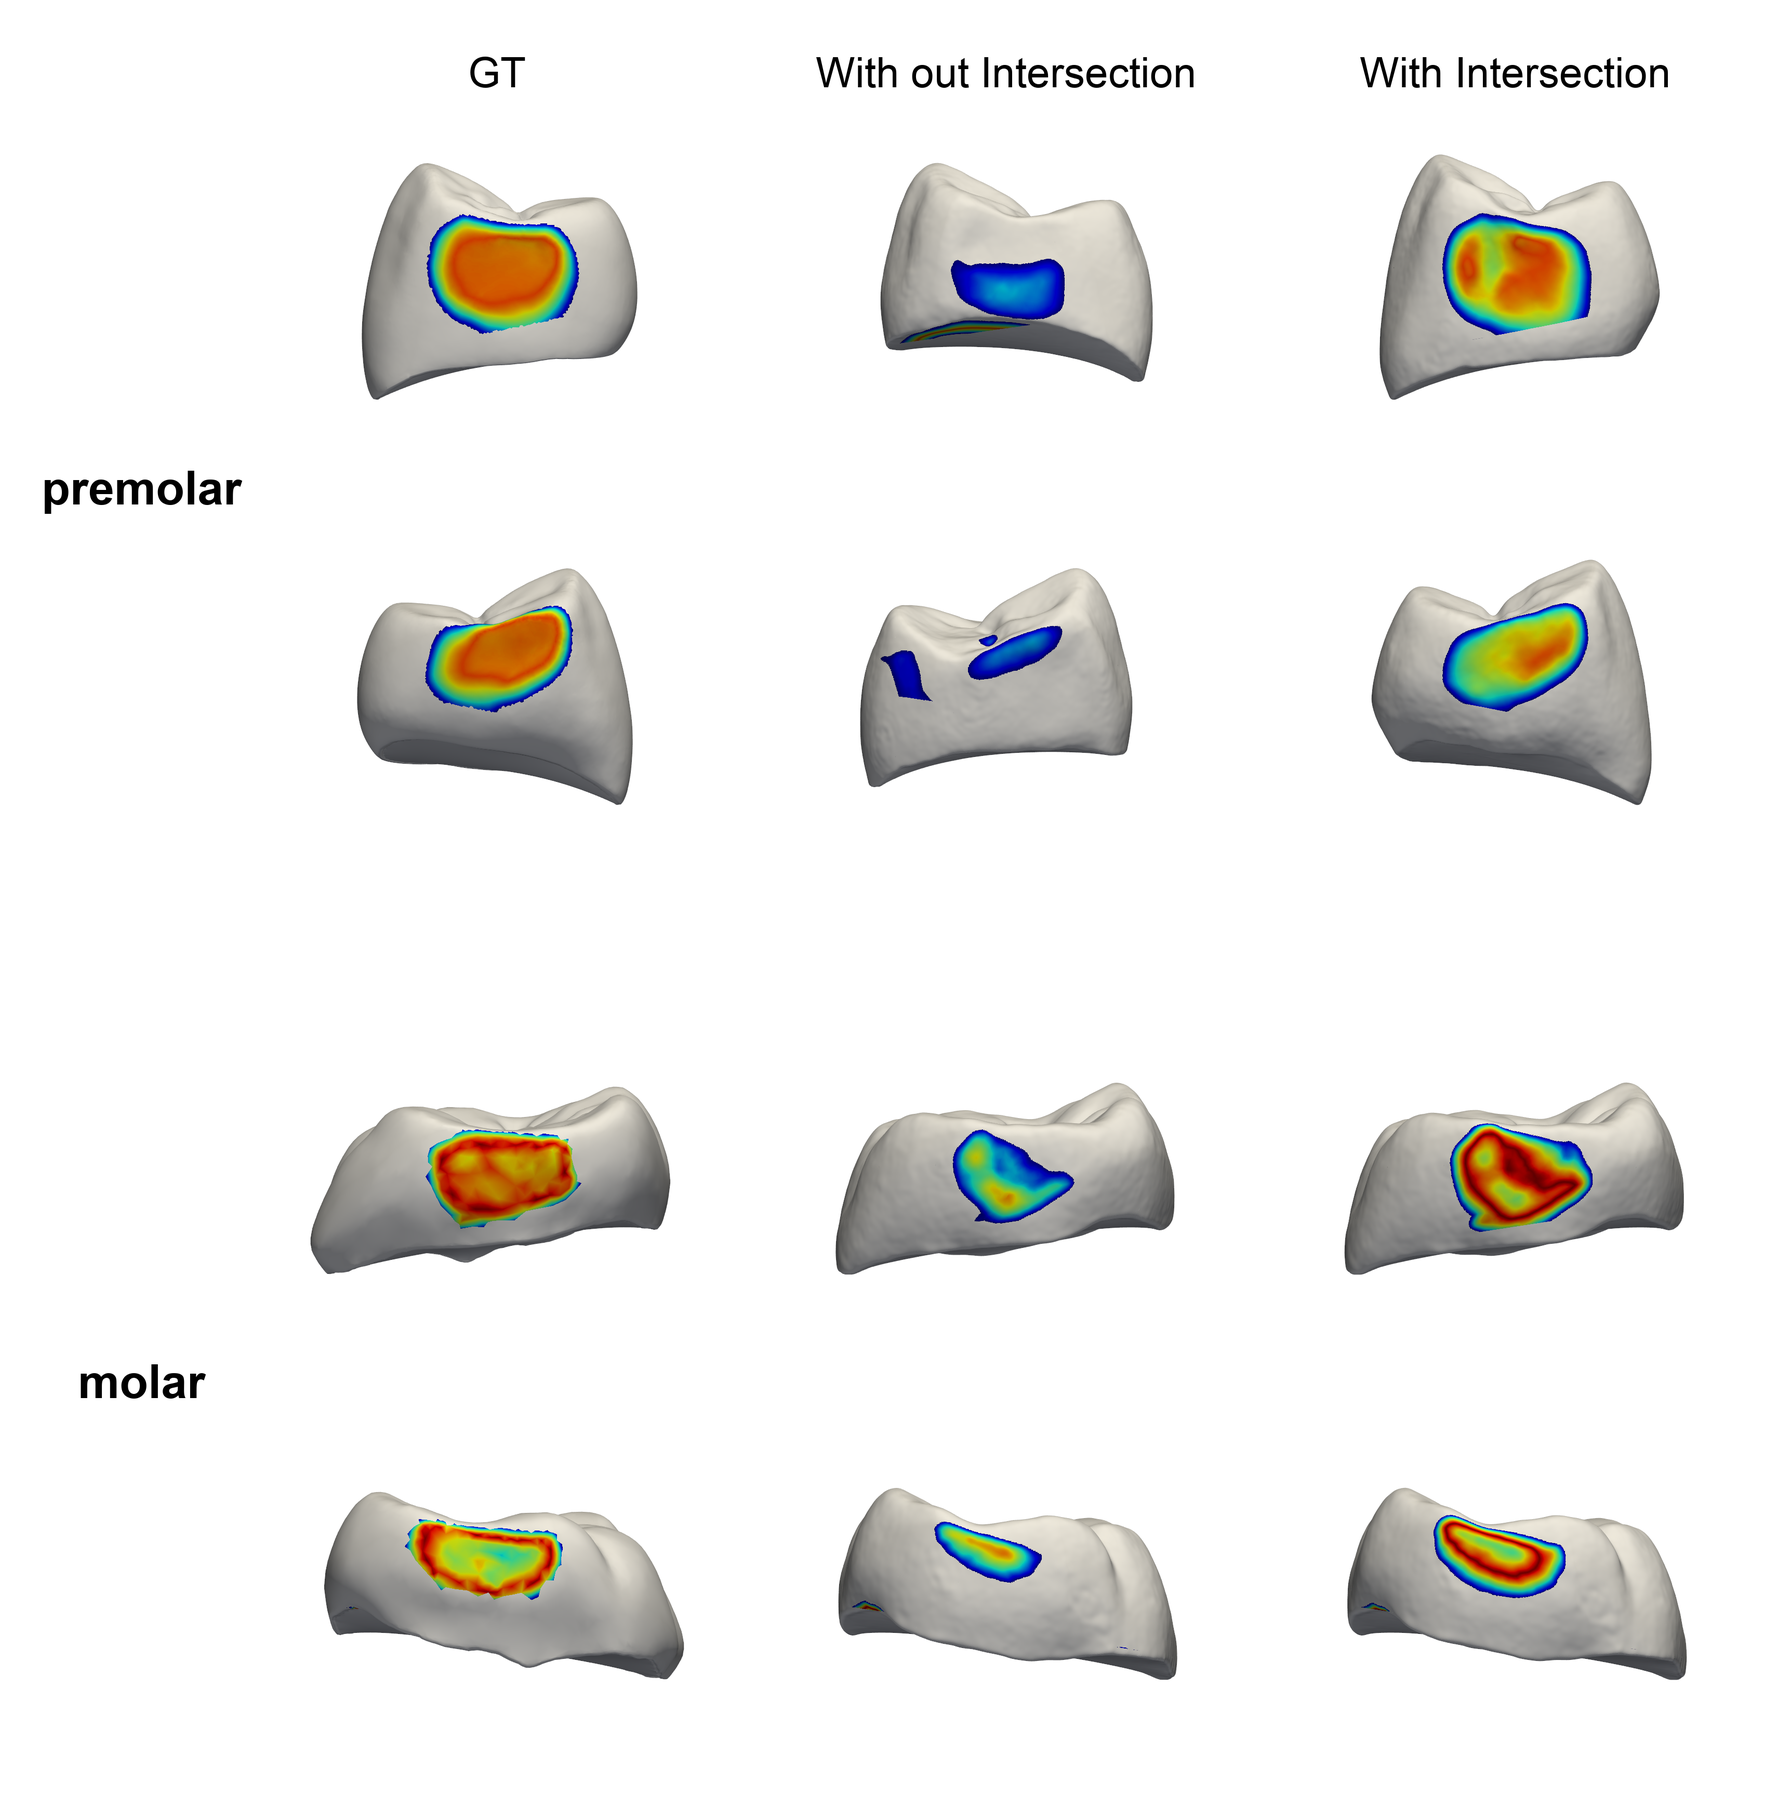
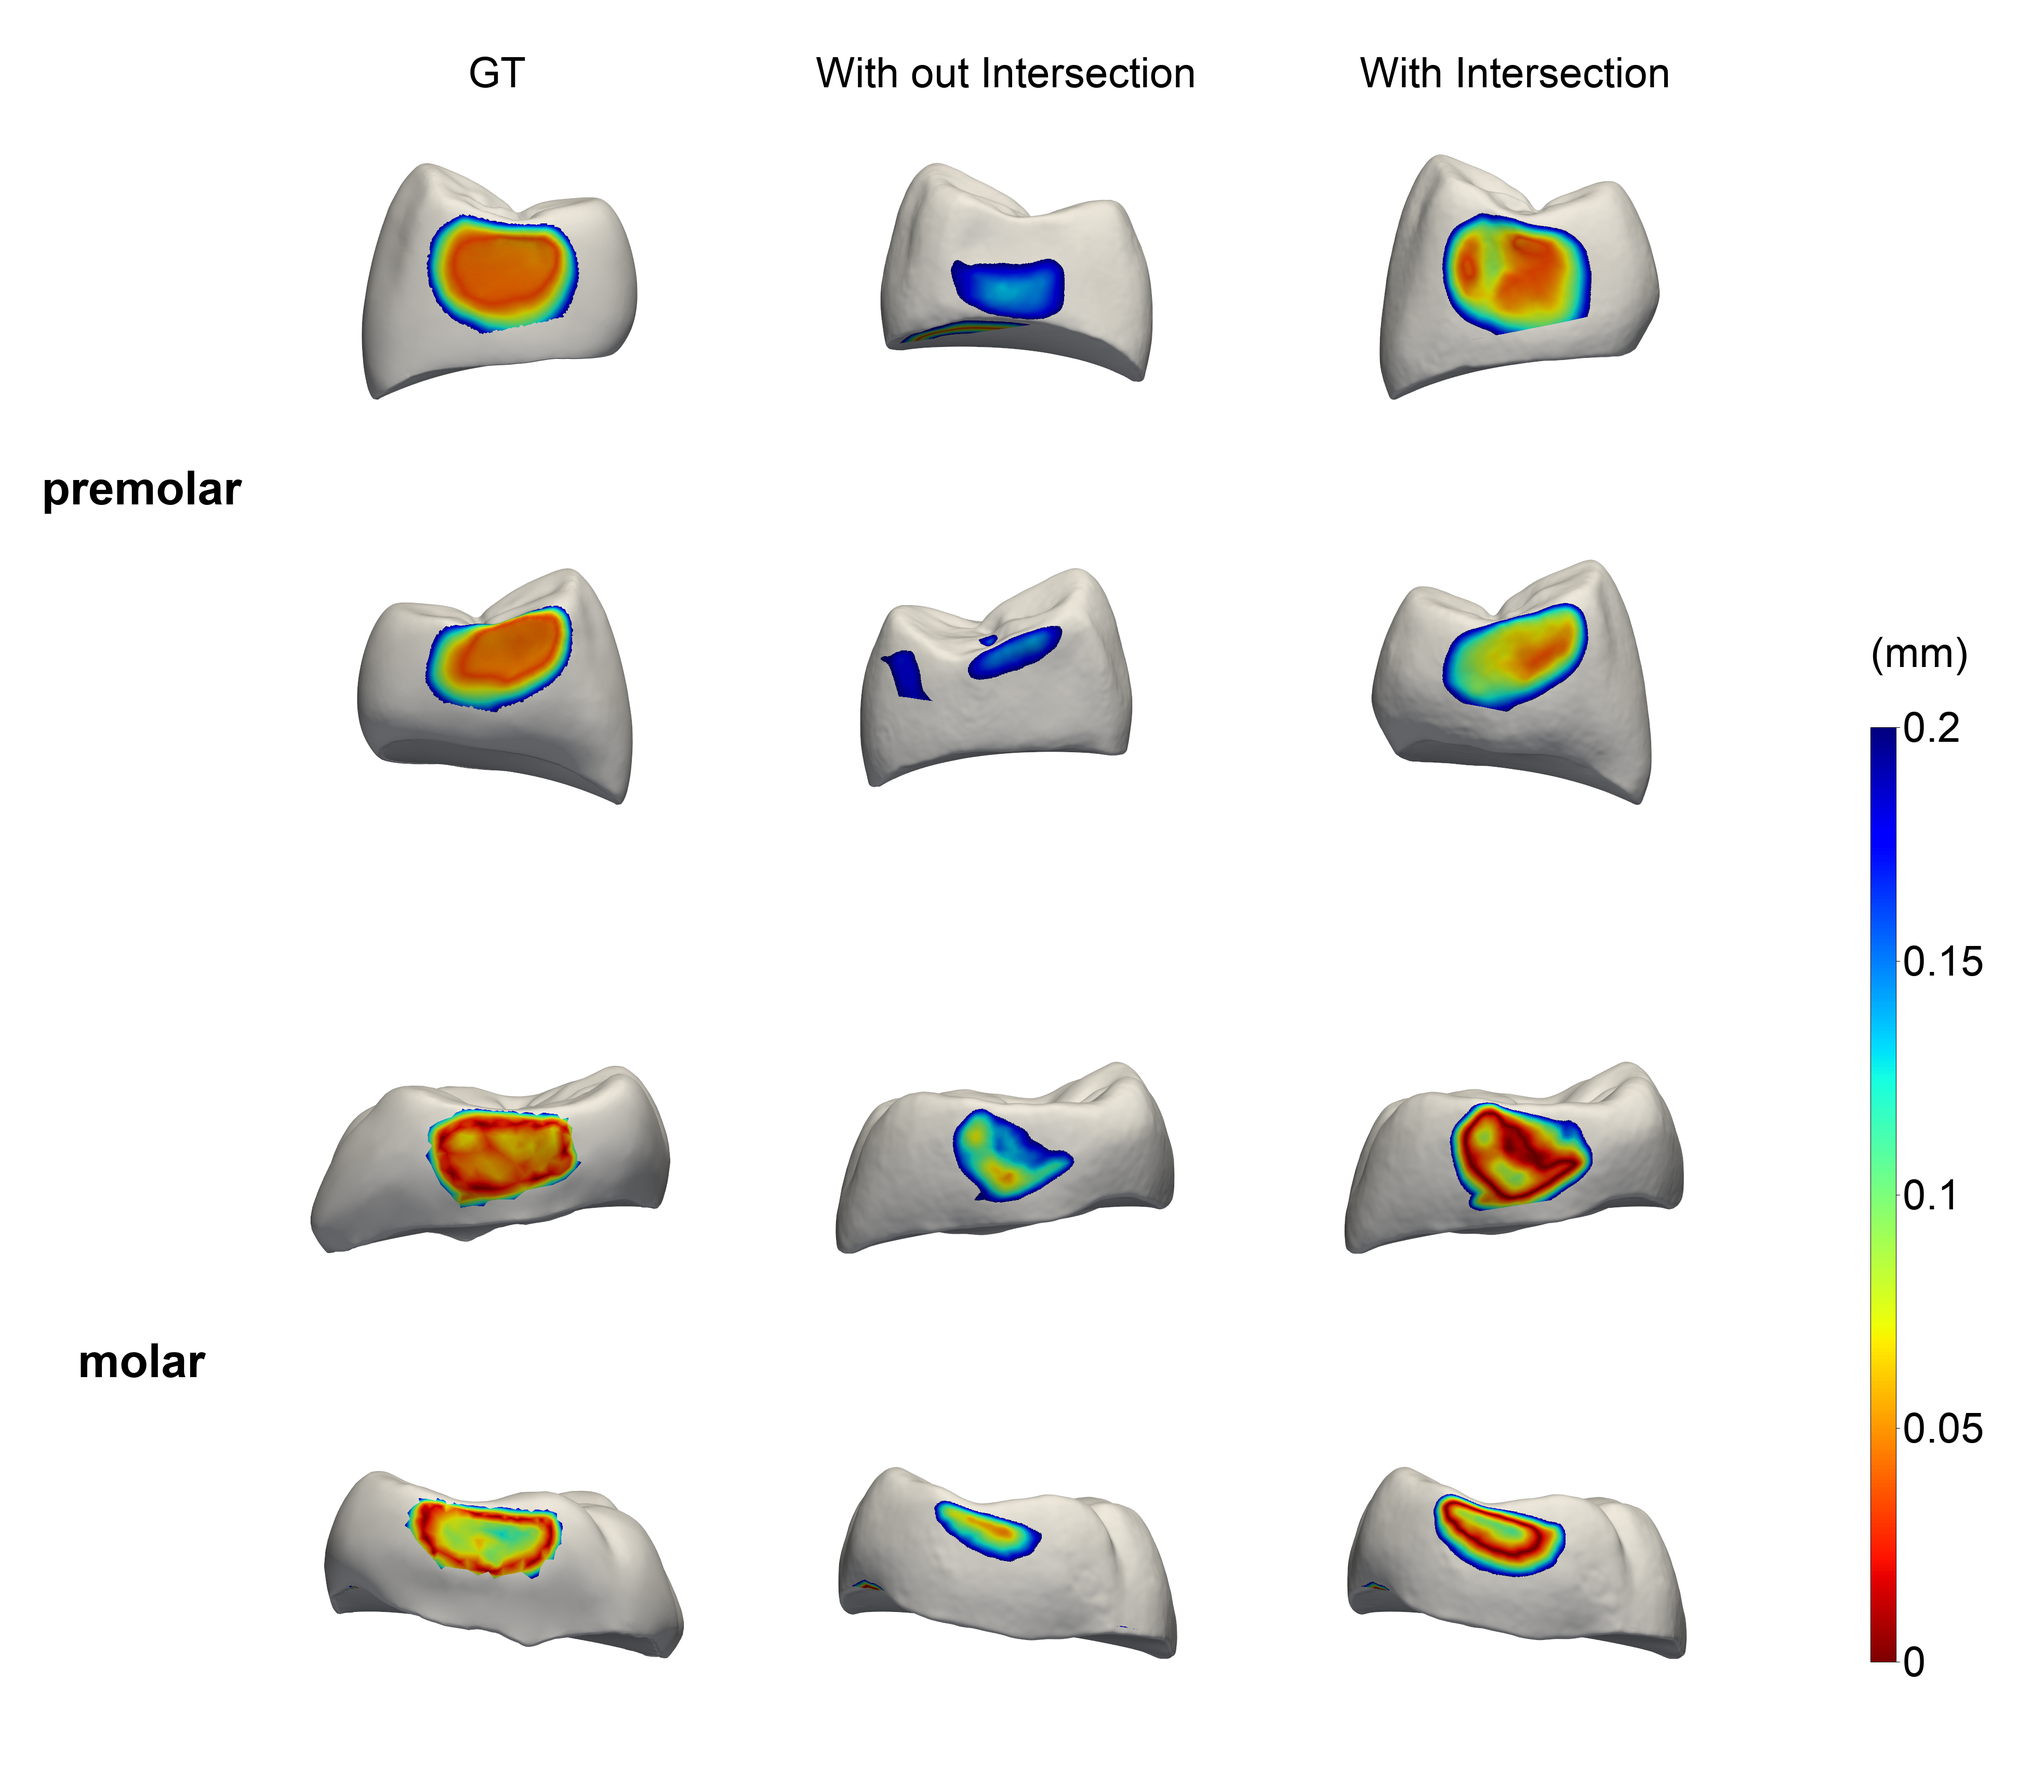
色带图可以调整位置

diff --git a/figures/ablation_adjacent/step3_merge_imgs.py b/figures/ablation_adjacent/step3_merge_imgs.py
@@ -6,9 +6,11 @@ exp. python step3_merge_imgs.py --folders "01bd10c4-0849-5ad8-a874-3be804541e00"
 from __future__ import annotations
 
 import argparse
+import math
 from pathlib import Path
 
 from PIL import Image, ImageDraw, ImageFont, ImageOps
+from matplotlib import colormaps
 
 
 SCRIPT_DIR = Path(__file__).resolve().parent
@@ -46,7 +48,7 @@ def main() -> None:
     parser.add_argument("--line_space", "--line-space", type=int, default=80,
                         help="gap between the two rows in each block (default: 80)")
     # 板块之间的竖直间距，单位像素。
-    parser.add_argument("--block_space", "--block-space", type=int, default=240,
+    parser.add_argument("--block_space", "--block-space", type=int, default=200,
                         help="vertical gap between case blocks (default: 80)")
      # 上方文字字体大小
     parser.add_argument("--font-size", type=int, default=80,
@@ -58,11 +60,39 @@ def main() -> None:
     parser.add_argument("--block-bold", "--block_bold", action="store_true",
                         help="use bold font for the left-side block labels")
     parser.add_argument("--background", default="white")
+    parser.add_argument("--clim", nargs="+", type=float, default=[0.0, 0.2],
+                        help="colorbar limits: MAX (min=0) or MIN MAX (default: 0 0.2)")
+    # 色带图字体大小
+    parser.add_argument("--colorbar-font-size", type=int, default=80,
+                        help="colorbar tick font size (default: 80)")
+    # 色带图宽度
+    parser.add_argument("--colorbar-length", "--colorbar-width", "--colorbar_width", dest="colorbar_width", type=int, default=1800,
+                        help="vertical colorbar length in pixels (default: automatic)")
+    # 色带图带宽
+    parser.add_argument("--colorbar-thickness", type=int, default=50,
+                        help="vertical colorbar thickness in pixels (default: 30)")
+    parser.add_argument("--colorbar-gap", type=int, default=100,
+                        help="horizontal gap between images and colorbar (default: 80)")
+    # 色带图位置
+    parser.add_argument("--colorbar-position", "--colorbar_position", nargs=2, type=int,
+                        default=(3600, 1400), metavar=("X", "Y"),
+                        help="colorbar top-left pixel coordinates; origin is image top-left (default: 3500 1500)")
     args = parser.parse_args()
-    if min(args.gap, args.line_space, args.block_space) < 0:
-        parser.error("gap, line_space and block_space must be nonnegative")
-    if args.font_size <= 0 or args.block_font_size <= 0:
-        parser.error("font-size and block-font-size must be positive")
+    if len(args.clim) not in (1, 2):
+        parser.error("--clim expects MAX or MIN MAX")
+    vmin, vmax = (0.0, args.clim[0]) if len(args.clim) == 1 else args.clim
+    if not all(math.isfinite(value) for value in (vmin, vmax)) or vmin >= vmax:
+        parser.error("--clim must contain finite limits with MIN < MAX")
+    if min(args.gap, args.line_space, args.block_space, args.colorbar_gap) < 0:
+        parser.error("gap, line_space, block_space and colorbar-gap must be nonnegative")
+    if min(args.font_size, args.block_font_size, args.colorbar_font_size) <= 0:
+        parser.error("all font sizes must be positive")
+    if args.colorbar_width is not None and args.colorbar_width < 2:
+        parser.error("colorbar-length must be at least 2 pixels")
+    if args.colorbar_thickness <= 0:
+        parser.error("colorbar-thickness must be positive")
+    if args.colorbar_position is not None and min(args.colorbar_position) < 0:
+        parser.error("colorbar-position coordinates must be nonnegative")
 
     root = args.folder.expanduser().resolve()
     if not root.is_dir():
@@ -104,10 +134,24 @@ def main() -> None:
                       for label in labels)
     left_width = label_width + 40
     header_height = args.font_size + 40
+    colorbar_font = load_font(args.colorbar_font_size)
     block_height = 2 * tile_height + args.line_space
-    canvas_width = left_width + 3 * tile_width + 4 * args.gap
-    canvas_height = (2 * args.gap + header_height + len(blocks) * block_height
-                     + (len(blocks) - 1) * args.block_space)
+    image_height = len(blocks) * block_height + (len(blocks) - 1) * args.block_space
+    tick_labels = [f"{vmin + (vmax - vmin) * tick / 4:.4g}" for tick in range(5)]
+    max_tick_width = math.ceil(max(colorbar_font.getlength(label) for label in [*tick_labels, "(mm)"]))
+    bar_length = args.colorbar_width if args.colorbar_width is not None else max(2, round(image_height * 0.7))
+    if bar_length > image_height:
+        parser.error(f"colorbar-length must not exceed the image region height ({image_height} pixels)")
+    image_right = left_width + 3 * tile_width + 3 * args.gap
+    bar_x = image_right + args.colorbar_gap
+    # Anchor the vertical colorbar to the bottom-right of the image region.
+    bar_y = args.gap + header_height + image_height - bar_length
+    if args.colorbar_position is not None:
+        bar_x, bar_y = args.colorbar_position
+    canvas_width = max(image_right + args.gap,
+                       bar_x + args.colorbar_thickness + 16 + max_tick_width + max(args.gap, 20))
+    canvas_height = max(2 * args.gap + header_height + image_height,
+                        bar_y + bar_length + args.colorbar_font_size + 20)
     canvas = Image.new("RGB", (canvas_width, canvas_height), args.background)
     draw = ImageDraw.Draw(canvas)
     for column, label in enumerate(COLUMN_LABELS):
@@ -126,6 +170,22 @@ def main() -> None:
                 tile = ImageOps.contain(image, (tile_width, tile_height))
                 canvas.paste(tile, (x + (tile_width - tile.width) // 2,
                                     y + (tile_height - tile.height) // 2))
+    unit_y = bar_y - args.colorbar_font_size - 20
+    if unit_y < args.colorbar_font_size:
+        # At the top edge, put the unit below the bar to keep it visible.
+        unit_y = bar_y + bar_length + args.colorbar_font_size + 10
+    draw.text((bar_x, unit_y), "(mm)", font=colorbar_font, fill="black", anchor="lb")
+    # High distances are blue at the top; low distances are red at the bottom.
+    cmap = colormaps["jet_r"]
+    for index in range(bar_length):
+        color = tuple(round(channel * 255) for channel in cmap(1 - index / (bar_length - 1))[:3])
+        draw.line((bar_x, bar_y + index, bar_x + args.colorbar_thickness - 1, bar_y + index), fill=color)
+    draw.rectangle((bar_x, bar_y, bar_x + args.colorbar_thickness - 1, bar_y + bar_length - 1), outline="black")
+    for tick, label in enumerate(tick_labels):
+        tick_y = bar_y + round((bar_length - 1) * (1 - tick / 4))
+        draw.line((bar_x + args.colorbar_thickness, tick_y, bar_x + args.colorbar_thickness + 6, tick_y), fill="black")
+        draw.text((bar_x + args.colorbar_thickness + 12, tick_y), label,
+                  font=colorbar_font, fill="black", anchor="lm")
     output = args.output.expanduser()
     if not output.is_absolute():
         output = SCRIPT_DIR / output
